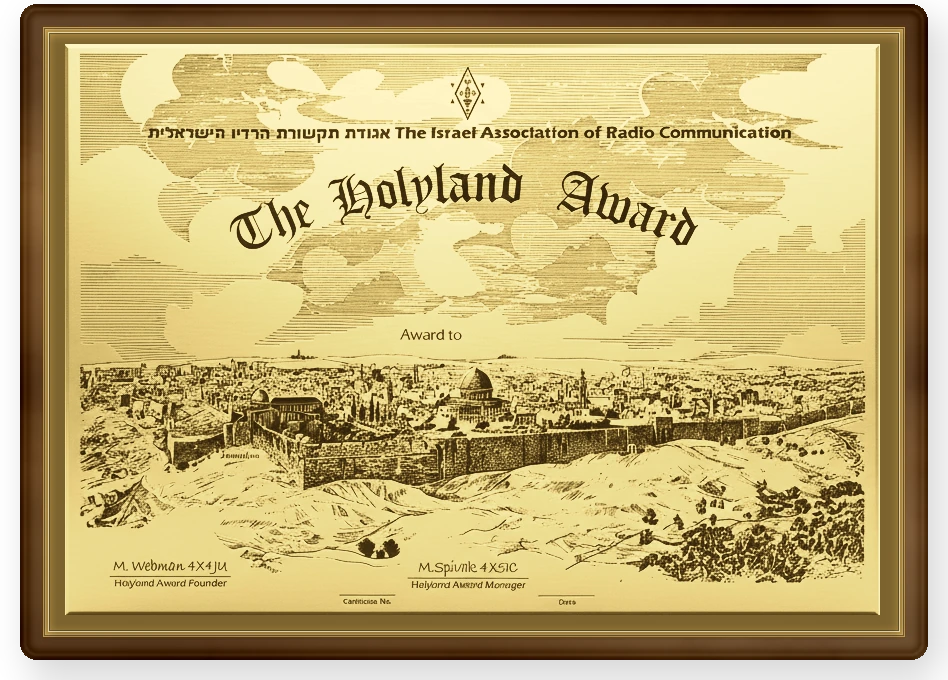
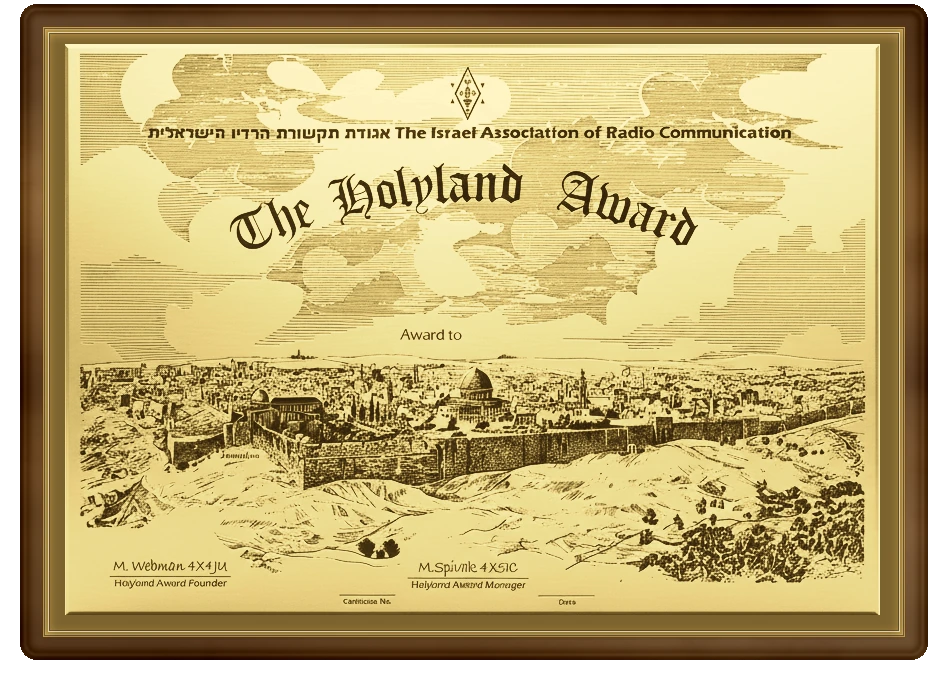
Rework welcome page: no shadow, larger image, symmetric header
- Removed the wall-mount drop shadow from the certificate image (baked
  into the wood plaque asset).
- Moved About & Rules to the top-right navbar row alongside Sign
  In/Sign Up, narrowed and repositioned it.
- Simplified the left info list to header-only badges (white pill
  background, description text removed), moved below the certificate
  image and spread to span its width, inset slightly from each edge.
- Switched the certificate image from flex-grow sizing to an explicit
  height, which fixed an invisible-letterboxing bug (object-contain
  inside an oversized flex-grown box left blank space above/below on
  narrow/tall viewports) and made the top edge stay put while the
  image grows downward; sized up in steps to 80vh.
- Centered the page subtitle under the title, and decoupled the logo
  from the title's centering (logo is now absolutely positioned) so
  "Holyland Award" itself centers exactly over the certificate image;
  added a second, mirrored logo on the title's right for symmetry.

Changed region(s): [[0.0306, 0.9574, 0.9789, 1.0], [0.9789, 0.0618, 1.0, 0.9574]]

diff --git a/frontend/src/components/WelcomePage/index.tsx b/frontend/src/components/WelcomePage/index.tsx
@@ -57,8 +57,10 @@ const WelcomePage = () => {
 
   return (
     <div className="flex-1 h-screen flex flex-col items-center overflow-y-auto relative z-10">
-      {/* Sign In / Sign Up - pinned to the top-right corner of the window, navbar-style */}
-      <div className="absolute top-6 right-16 flex items-center gap-3 z-20">
+      {/* Sign In / Sign Up / About & Rules - pinned to the top-right corner
+          of the window, navbar-style. About & Rules sits right at the
+          corner; Sign In/Sign Up sit to its left, with room to breathe. */}
+      <div className="absolute top-6 right-14 flex items-center gap-3 z-20">
         <Button
           variant="outline"
           onClick={() => setAuthView("signIn")}
@@ -73,13 +75,31 @@ const WelcomePage = () => {
             Sign Up
           </Button>
         )}
+        <Button
+          onClick={() => navigate('/rules')}
+          className="px-4 h-11 py-0 text-base border-2 border-transparent">
+          About & Rules
+        </Button>
       </div>
 
-      <div className="max-w-4xl w-full mx-auto px-6 text-center flex-shrink-0 pt-6">
-        {/* Logo + Header - side by side (leveled), not stacked, so this whole block is shorter */}
-        <div className="flex items-center justify-center gap-8">
-          <img src={logo} alt="Holyland Award Logo" className="h-24 w-auto flex-shrink-0" />
-          <div className="text-left">
+      <div className="max-w-4xl w-full mx-auto px-6 text-center flex-shrink-0 pt-6 relative">
+        {/* Logo + Header - logos are absolutely positioned to either side of
+            the title block (symmetric) instead of sitting in-flow beside
+            it, so they don't shift the title/subtitle off-center - it stays
+            centered to the page (matching the image's own centering). */}
+        <div className="relative inline-flex items-center justify-center">
+          <img
+            src={logo}
+            alt="Holyland Award Logo"
+            className="absolute right-full mr-8 h-24 w-auto flex-shrink-0"
+          />
+          <img
+            src={logo}
+            alt=""
+            aria-hidden="true"
+            className="absolute left-full ml-8 h-24 w-auto flex-shrink-0"
+          />
+          <div className="text-center">
             <h1 className="text-4xl md:text-6xl font-bold text-gray-900 dark:text-white">
               Holyland Award
             </h1>
@@ -90,54 +110,16 @@ const WelcomePage = () => {
         </div>
       </div>
 
-      {/* Three-column row: info card in the left gutter, image in the middle (untouched,
-          nothing on it), CTA buttons in the right gutter. The image is sized by height
-          (h-full w-auto) and doesn't grow/shrink (flex-shrink-0); the info card and button
-          column absorb whatever empty space is left on either side instead of that space
-          going to waste.
-          Height is pinned to calc(100vh - 184px) - the space the header block took up
-          BEFORE the logo moved inline - rather than flex-1, so shortening the header just
-          moves the image up instead of growing it. */}
-      <div
-        className="w-full flex items-center justify-center gap-4 md:gap-8 px-6 mt-2 flex-shrink-0"
-        style={{ height: 'calc(100vh - 184px)' }}
-      >
-        {/* Info card - left gutter. self-start so its top lines up with the
-            certificate image's top edge instead of being vertically
-            centered against the (taller) image. */}
-        <div className="flex-1 flex flex-col gap-2 text-left min-w-0 self-start mt-6">
-          <div>
-            <h3 className="font-semibold text-xl md:text-2xl">
-              Track Progress
-            </h3>
-            <p className="text-base md:text-lg text-muted-foreground">
-              Monitor your QSO contacts across different regions and squares
-            </p>
-          </div>
-          <div>
-            <h3 className="font-semibold text-xl md:text-2xl">
-              Visualize Achievement
-            </h3>
-            <p className="text-base md:text-lg text-muted-foreground">
-              See your covered squares on an interactive map
-            </p>
-          </div>
-          <div>
-            <h3 className="font-semibold text-xl md:text-2xl">
-              Claim Certificate
-            </h3>
-            <p className="text-base md:text-lg text-muted-foreground">
-              Completed your region's requirements? Claim your Holyland
-              Award certificate!
-            </p>
-          </div>
-          <Button
-            onClick={() => navigate('/rules')}
-            className="mt-2 px-6 md:px-8 h-14 py-0 text-base md:text-lg border-2 border-transparent self-start">
-            About & Rules
-          </Button>
-        </div>
-
+      {/* Image + badges stacked in one column, sized to fit the image's own
+          rendered width (w-fit, centered via mx-auto) rather than the full
+          page width - so the badges row below, using w-full + justify-between,
+          spans exactly from the image's left edge to its right edge. The
+          image has an explicit height (not flex-grow) so its top edge stays
+          put right below the header and growing it pushes the badges down
+          in normal flow, rather than trying to exactly fill leftover flex
+          space (which had edge-case bugs with invisible letterboxing and
+          overlap at different viewport shapes). */}
+      <div className="w-fit mx-auto flex flex-col items-center gap-1 px-6 mt-1">
         {/* Certificate image - mounted on a wood plaque backdrop, rendered
             with a real transparent background (not a flat color + blend
             mode) since the page backdrop is a dimmed photo, not a solid
@@ -146,11 +128,20 @@ const WelcomePage = () => {
         <img
           src={awardCert}
           alt="Holyland Award Certificate, mounted on a wood plaque"
-          className="h-full w-auto flex-shrink-0 animate-float mt-6"
+          className="h-[80vh] w-auto max-w-full object-contain flex-shrink-0 animate-float"
         />
 
-        {/* Right gutter spacer - keeps the certificate image centered */}
-        <div className="flex-1 min-w-0" />
+        <div className="w-full flex-shrink-0 flex items-center justify-between gap-3 px-8 pb-1">
+          <h3 className="font-semibold text-xl md:text-2xl bg-white rounded-lg px-4 py-1 w-fit shadow-sm">
+            Track Progress
+          </h3>
+          <h3 className="font-semibold text-xl md:text-2xl bg-white rounded-lg px-4 py-1 w-fit shadow-sm">
+            Visualize Achievement
+          </h3>
+          <h3 className="font-semibold text-xl md:text-2xl bg-white rounded-lg px-4 py-1 w-fit shadow-sm">
+            Claim Certificate
+          </h3>
+        </div>
       </div>
 
       {registrationFull && registrationStatus?.user_limit !== null && (
